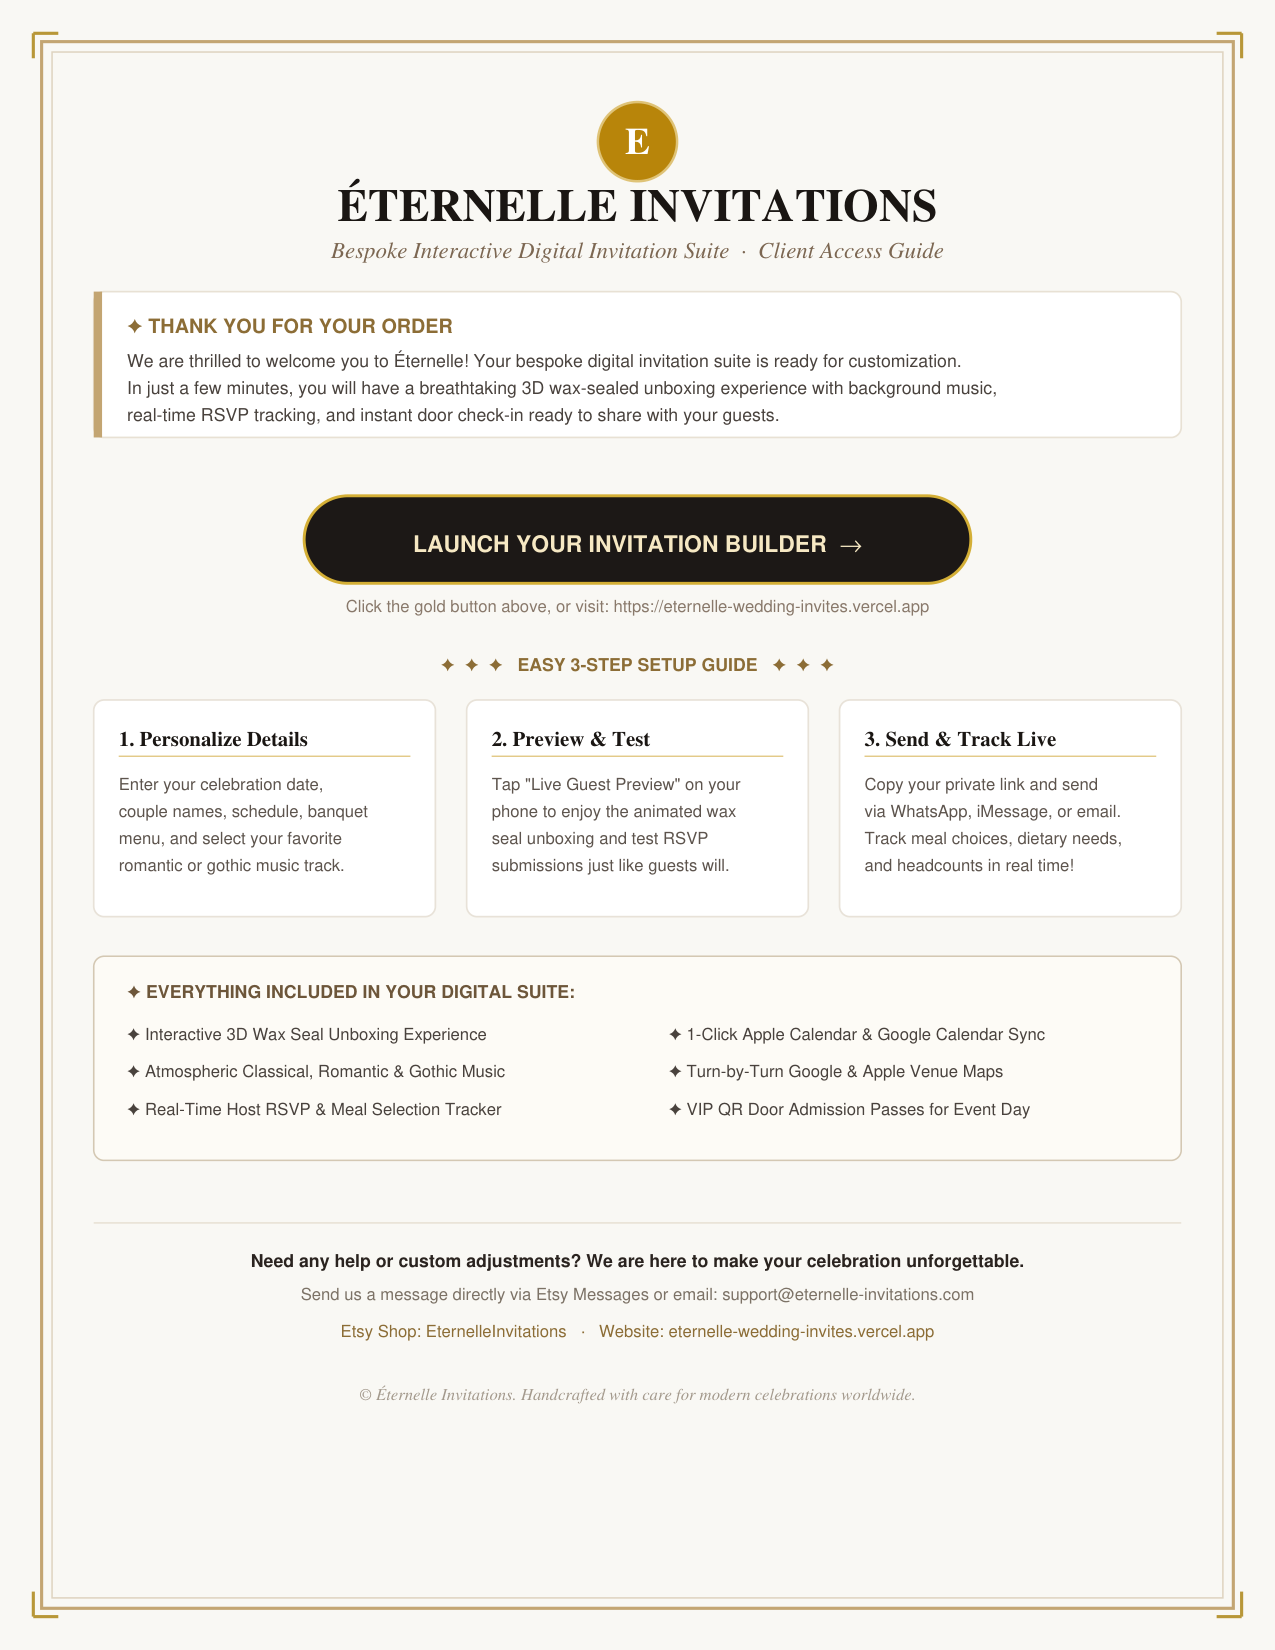
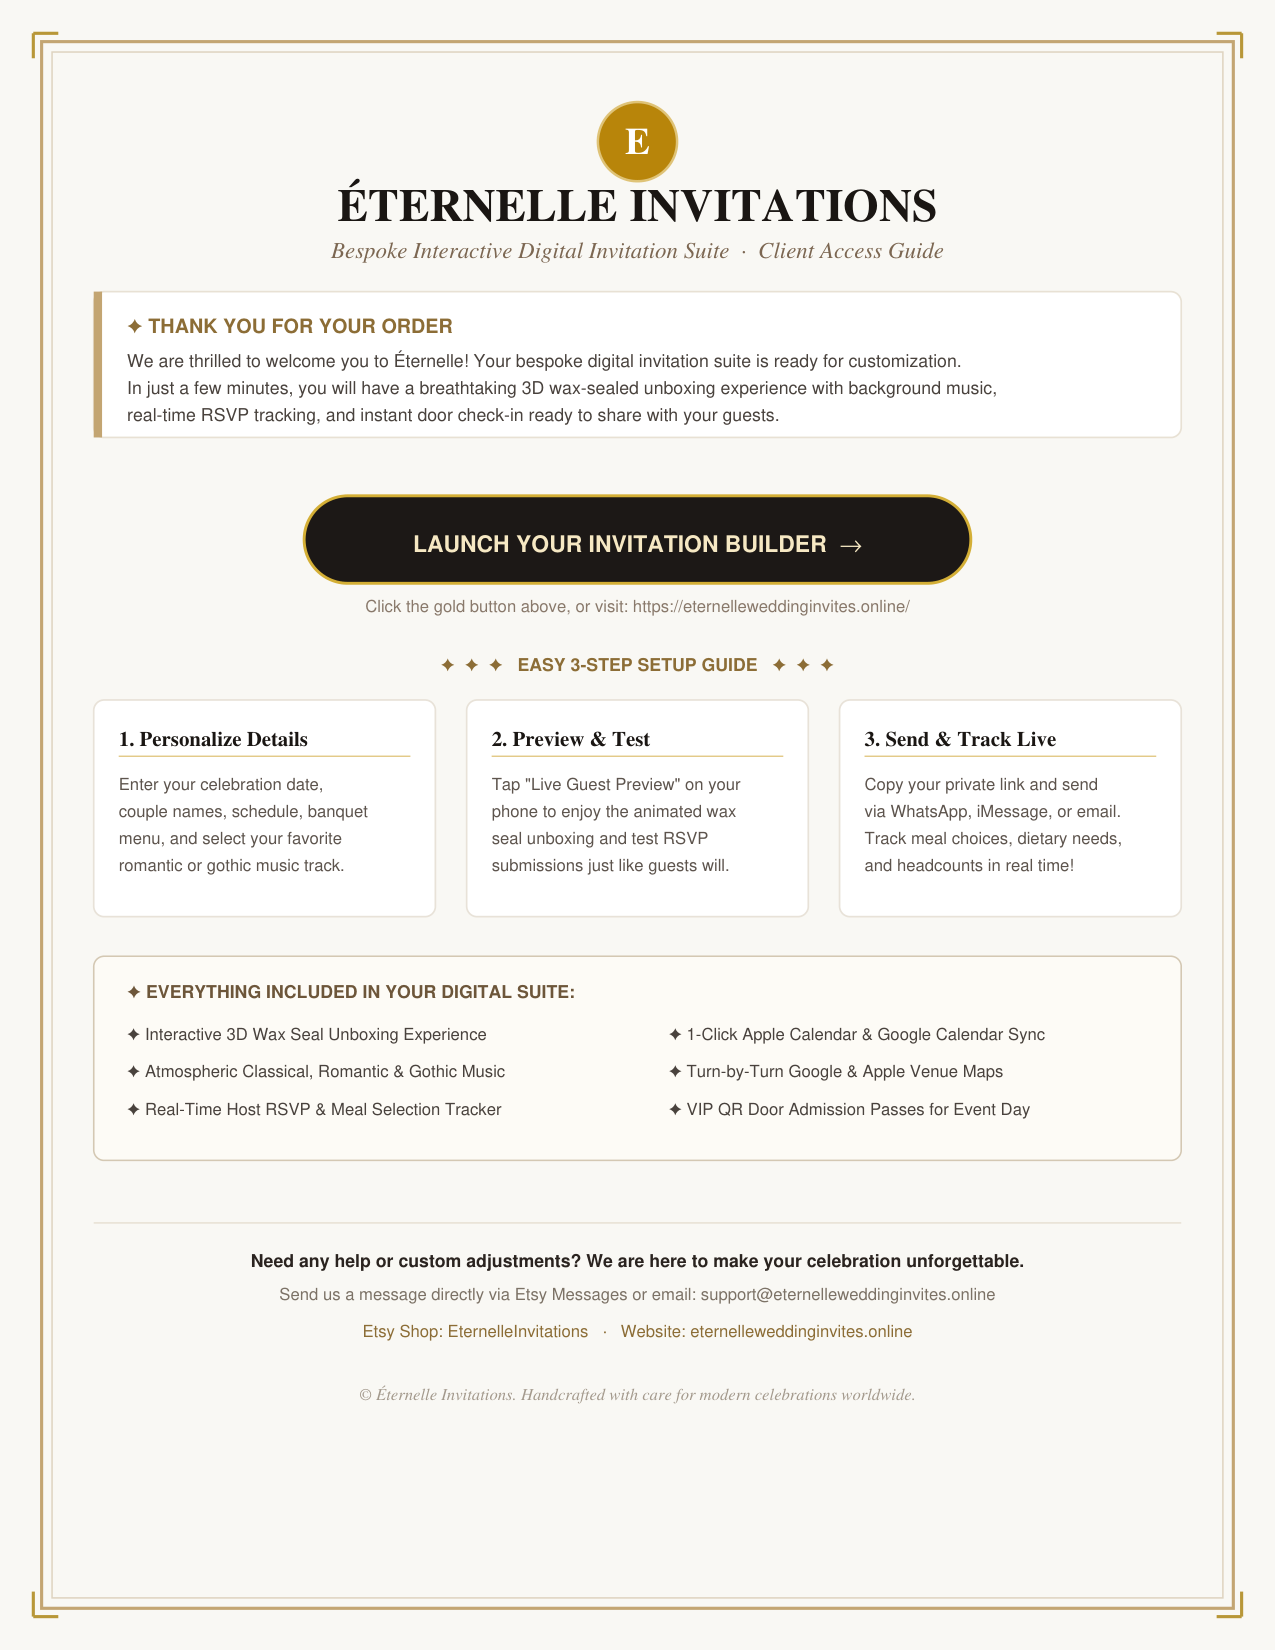
fix(etsy): update client guide with live domain eternelleweddinginvites.online and support email

Changed region(s): [[0.2141, 0.7727, 0.7341, 0.8345], [0.4588, 0.34, 0.6729, 0.3709], [0.2753, 0.34, 0.4282, 0.3709]]

diff --git a/public/Eternelle_Access_Guide.html b/public/Eternelle_Access_Guide.html
@@ -298,12 +298,12 @@
 
     <!-- Big Access Button -->
     <div class="cta-container">
-      <a href="https://eternelle-wedding-invites.vercel.app" class="btn-access" target="_blank">
+      <a href="https://eternelleweddinginvites.online/" class="btn-access" target="_blank">
         Launch Your Invitation Builder &rarr;
       </a>
       <p class="btn-sublink">
-        Click the gold button above, or copy this direct link: <br />
-        <a href="https://eternelle-wedding-invites.vercel.app" target="_blank">https://eternelle-wedding-invites.vercel.app</a>
+        Click the gold button above, or visit your live suite: <br />
+        <a href="https://eternelleweddinginvites.online/" target="_blank">https://eternelleweddinginvites.online/</a>
       </p>
     </div>
 
@@ -353,7 +353,7 @@
       <p>
         <strong>Need any help or custom adjustments?</strong> We are here to make your celebration unforgettable.<br>
         Send us a message directly via <strong>Etsy Messages</strong> or email us at 
-        <a href="mailto:support@eternelle-invitations.com">support@eternelle-invitations.com</a>.
+        <a href="mailto:support@eternelleweddinginvites.online">support@eternelleweddinginvites.online</a>.
       </p>
       <p style="margin-top: 5px; font-size: 9.5px; color: #a4998c;">
         © Éternelle Invitations · Handcrafted with care for modern celebrations worldwide.
